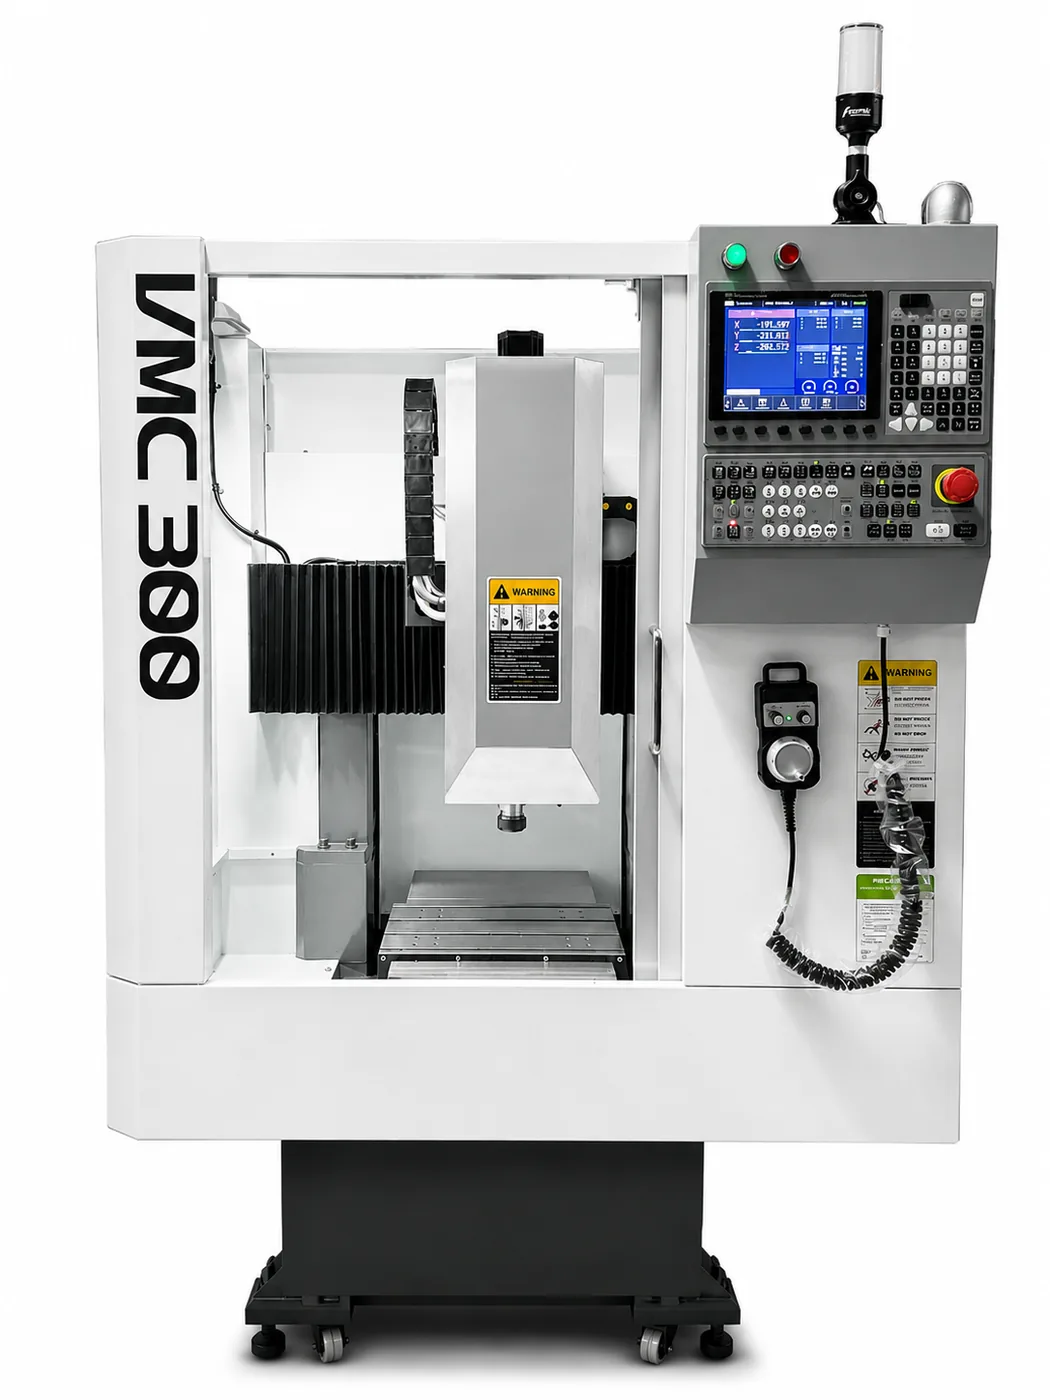
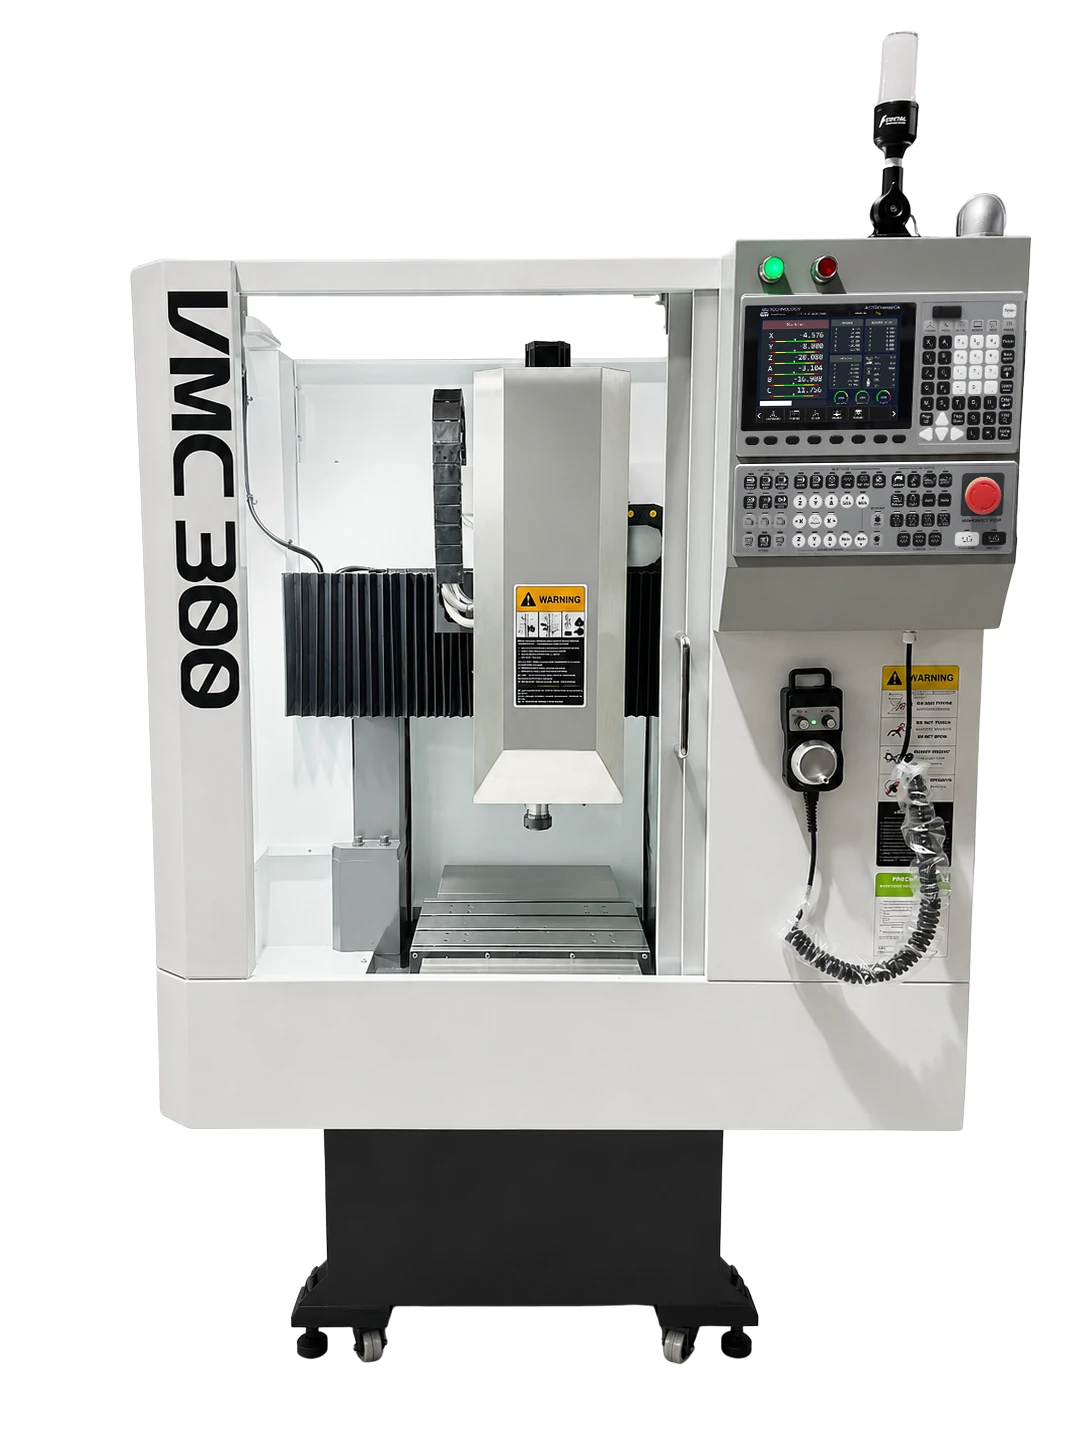
chore(cnc): rename feed spec group to speed and refresh machine images
- Update feed spec group label: 'Feed system'/'Hệ truyền động' -> 'Speed'/'Tốc độ'
- Adjust VMC image dimensions to 1086x1448 to match new asset
- Update pjm-spindle and vmc webp images

diff --git a/data/machines.ts b/data/machines.ts
@@ -253,7 +253,7 @@ export const machines: Machine[] = [
     subtitle: "Vertical Machining Center",
     tagline: "Máy phay CNC 3 trục thiết kế và chế tạo với độ chính xác cao, đáp ứng hiệu quả các nhu cầu gia công cơ khí hiện đại.",
     taglineEn: "A 3-axis CNC milling machine designed and built to high precision, efficiently meeting the demands of modern machining.",
-    image: IMG("vmc", 1050, 1400),
+    image: IMG("vmc", 1086, 1448),
     specs: [
       { k: "materials", v: "Nhôm, đồng thau, gỗ, nhựa", vEn: "Aluminium, brass, wood, plastic" },
       { k: "axes", v: "3" },